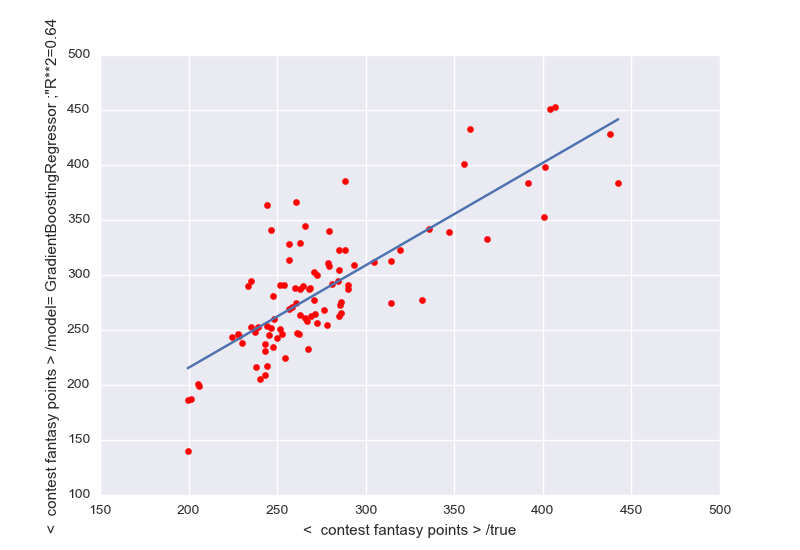
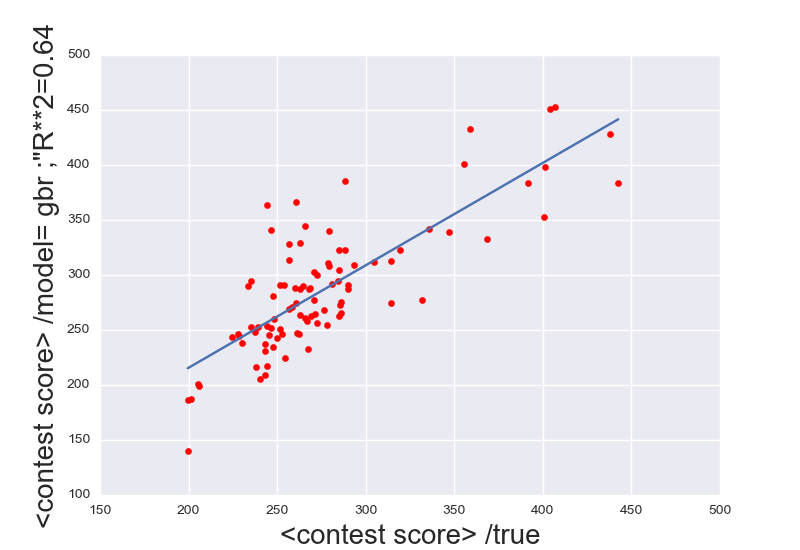
figs

Changed region(s): [[0.0312, 0.0309, 0.0938, 0.9582], [0.3438, 0.9582, 0.6875, 0.9891]]

diff --git a/ANALYSIS/SLATES/slates.py b/ANALYSIS/SLATES/slates.py
@@ -74,9 +74,11 @@ def plot_model(df=None,model=None,ttype=None):
 		plt.scatter(df.loc[df.position==X].true.values.tolist(),
 				df.loc[df.position==X][model].values.tolist(),color=cmap(i / float(len(posl))    ),label=posl[i] ,alpha=0.75)
 	plt.legend()
-	plt.ylabel('%ownership/model='+model)
-	plt.xlabel('%ownership/true')
+	mod_dict = {'RandomForestRegressor':'rfr','Lasso':'Lasso','Ridge':'ridge','GradientBoostingRegressor':'gbr','mean':'mean'}
+	plt.ylabel('%ownership/model='+mod_dict[model],size=20)
+	plt.xlabel('%ownership/true',size=20)
 	plt.savefig('jan.'+model+'.'+ttype+'.png')
+	plt.clf()
 
 
 def plot_slate_pos_error(posdf=None,model_err=None,do_norm=None,ttype=None):
@@ -104,6 +106,7 @@ def load_test_composite(ttype=None):
 
 
 def plot_exp_pts(df=None,ttype=None,model=None):
+	mod_dict = {'RandomForestRegressor':'rfr','Lasso':'Lasso','Ridge':'ridge','GradientBoostingRegressor':'gbr','mean':'mean'}
 	ctest = load_test_composite(ttype=ttype)
 	mdf = pd.merge(ctest,df)
 	print mdf.info()
@@ -127,9 +130,10 @@ def plot_exp_pts(df=None,ttype=None,model=None):
 	
 	plt.scatter(x,y,color='red')
 	plt.plot(plX,plY)
+	
 
-	plt.xlabel('<  contest fantasy points > /true')
-	plt.ylabel('<  contest fantasy points > /model= '+model+' ;"R**2='+ str(round(r_value**2,2)))
+	plt.xlabel('<contest score> /true' ,size = 20)
+	plt.ylabel('<contest score> /model= '+mod_dict[model]+' ;"R**2='+ str(round(r_value**2,2)), size=20)
 	plt.legend()
 	plt.savefig('field.'+model+'.'+ttype+'.png')
 	plt.clf()
@@ -155,14 +159,16 @@ if __name__ == '__main__':
 	bdf = get_basal(ttype=ttype) 
 	df = pd.merge(df,bdf,on='name')
 
-	#plot_model(df=df,model='GradientBoostingRegressor',ttype=ttype)
+	modell=['RandomForestRegressor','GradientBoostingRegressor','Ridge','Lasso','mean']
+	for model in modell:
+		plot_model(df=df,model=model,ttype=ttype)
+	sys.exit()
 
 	if redo_rmsd_by_pos:
 		do_build_contest_rmsd_by_pos(df=df,do_norm=do_norm)
 	else:
 		posdf = load_contest_rmsd_by_pos(do_norm=do_norm)
 
-	modell=['RandomForestRegressor','GradientBoostingRegressor','Ridge','Lasso','mean']
 	for X in modell:
 		plot_exp_pts(df=df,ttype=ttype,model=X)
 
